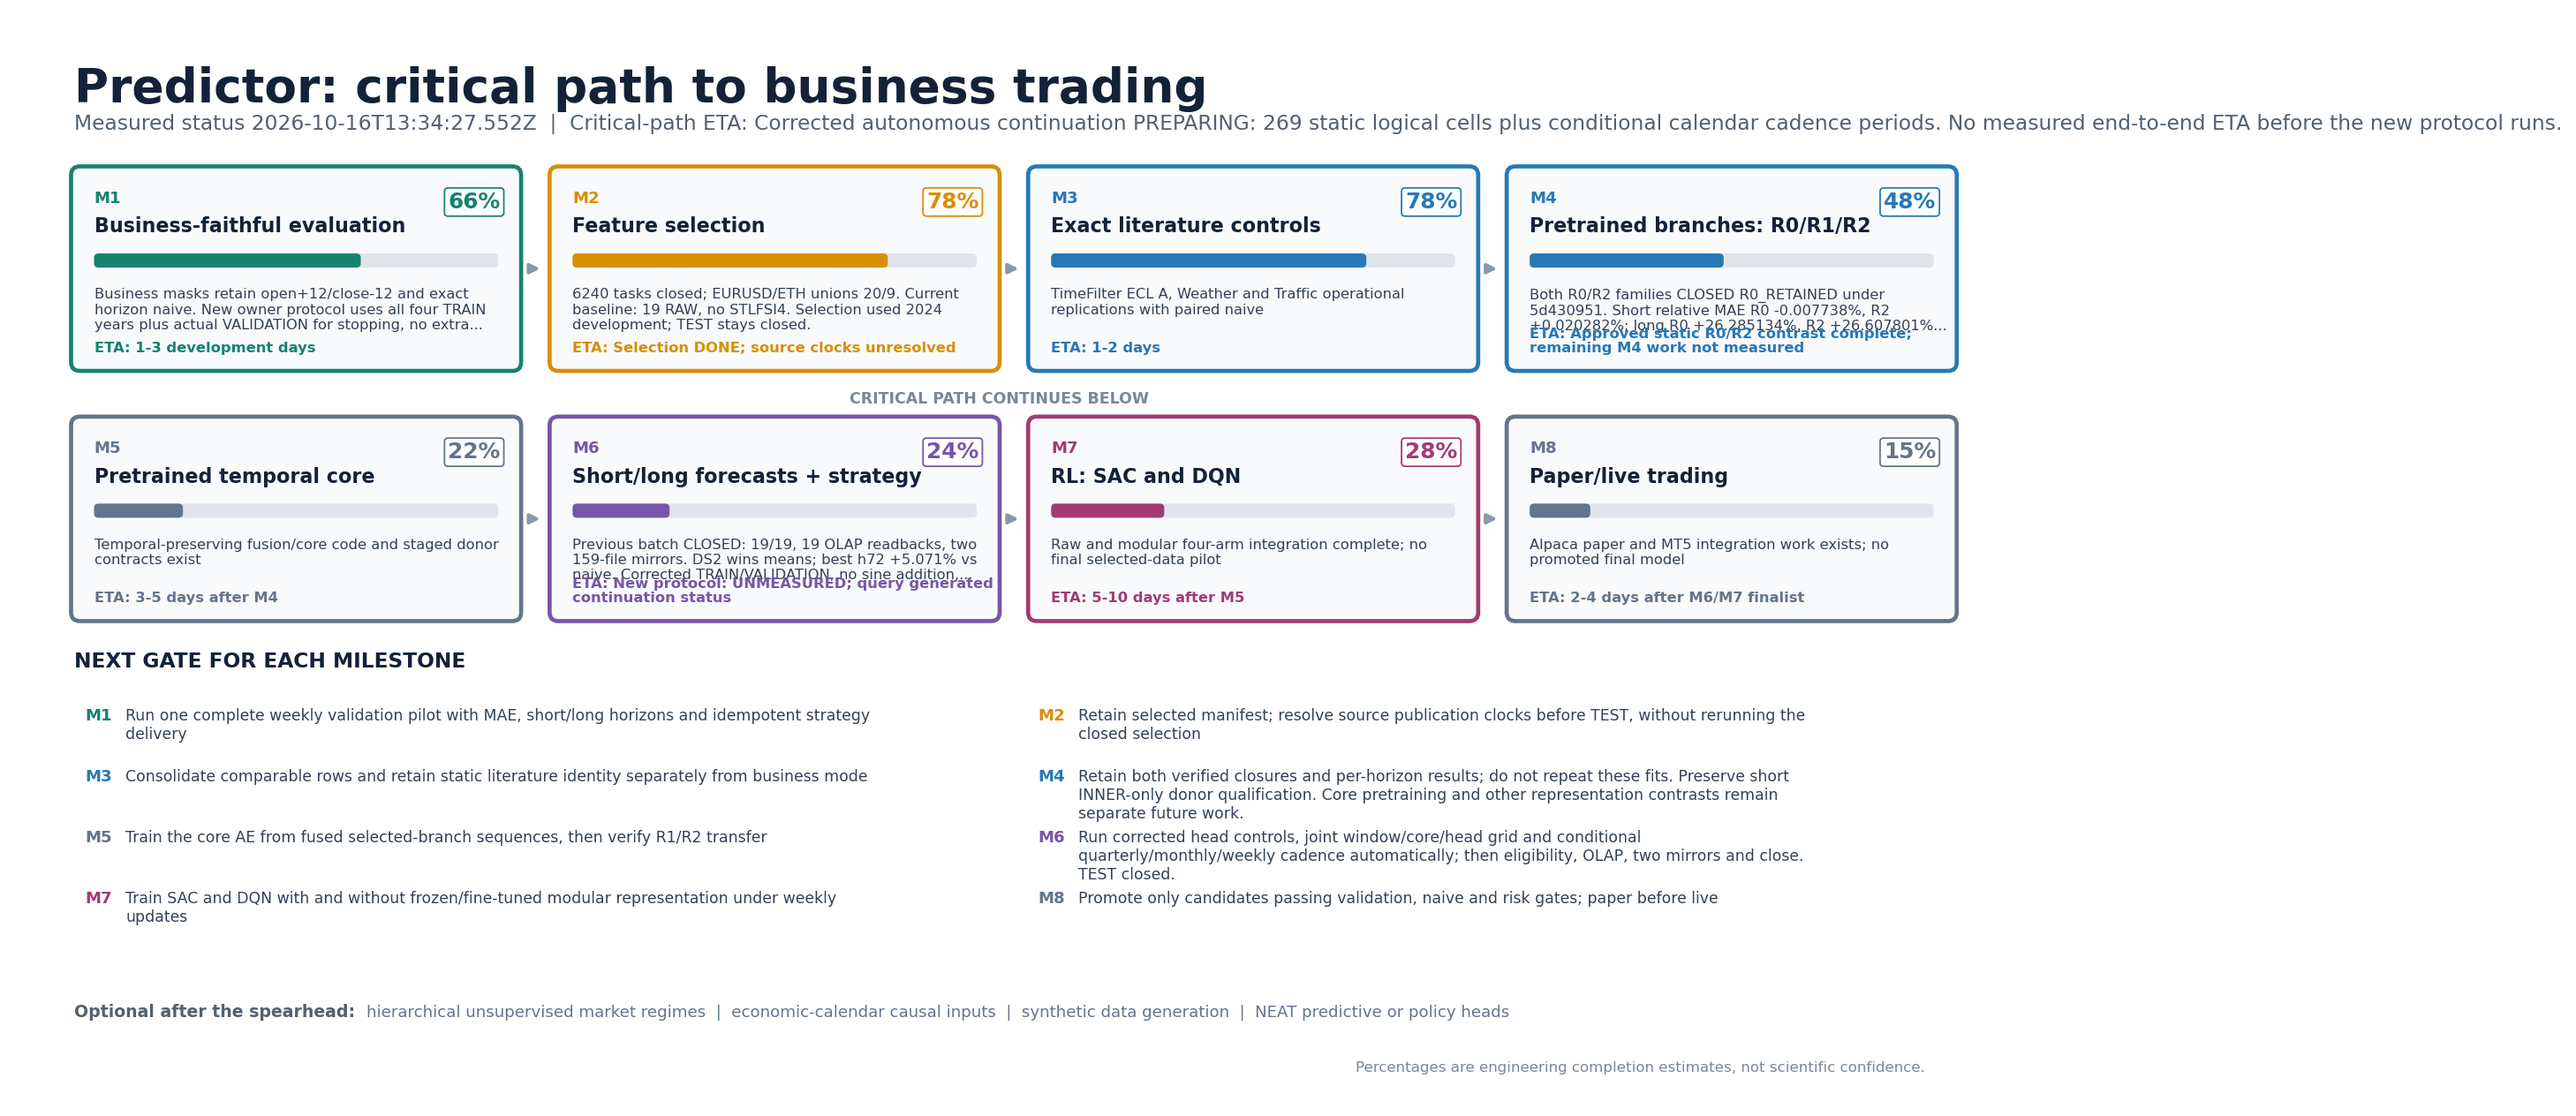
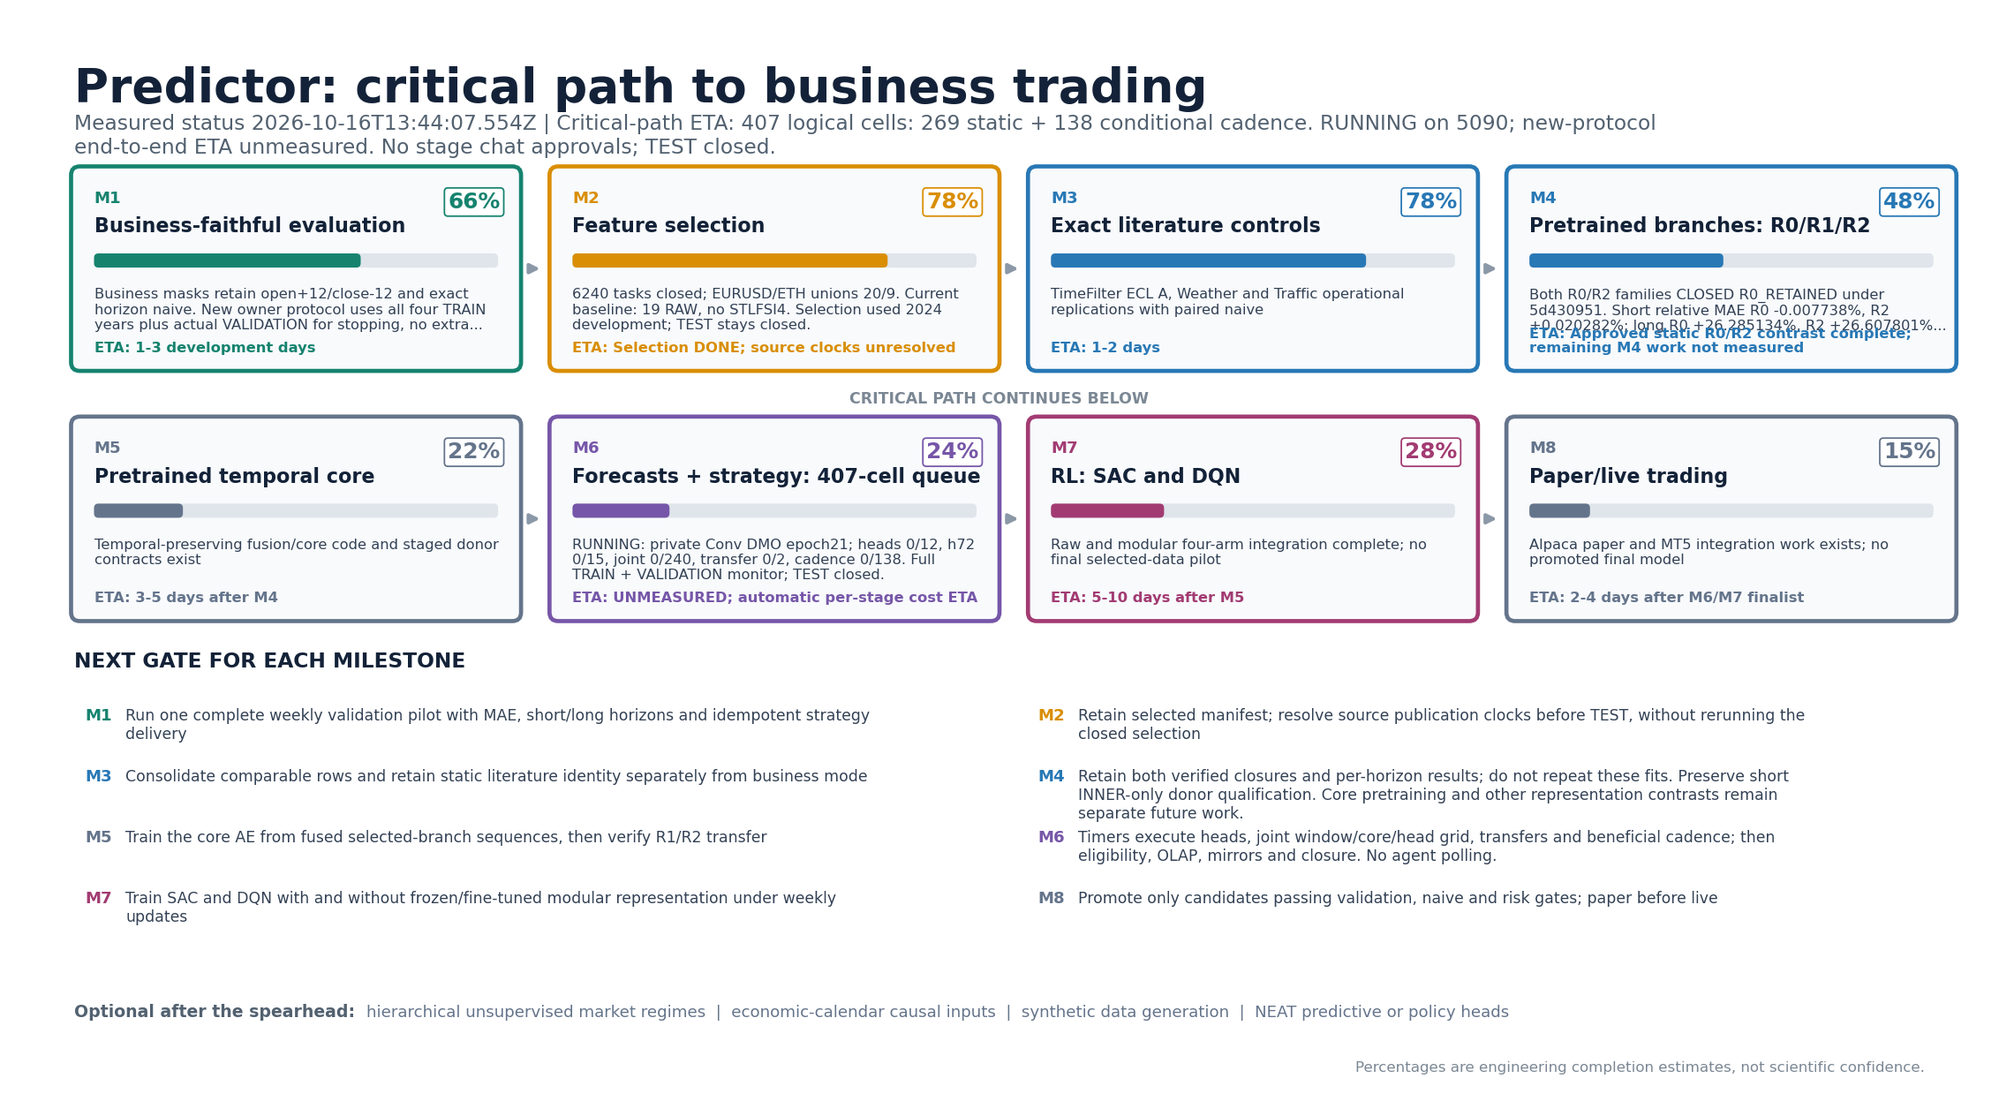
Record live full continuation launch and exact annual cadence coverage

diff --git a/docs/audits/evidence/canonical_20261003/render_master_milestones.py b/docs/audits/evidence/canonical_20261003/render_master_milestones.py
@@ -53,7 +53,7 @@ def main() -> None:
     ax.text(0.55, 9.52, "Predictor: critical path to business trading",
             fontsize=24, fontweight="bold", color="#132238", va="top")
     ax.text(0.55, 9.08,
-            f"Measured status {doc['as_of']}  |  Critical-path ETA: {doc['critical_path_eta']}",
+            wrapped(f"Measured status {doc['as_of']}  |  Critical-path ETA: {doc['critical_path_eta']}", 150),
             fontsize=10.5, color="#526170", va="top")
 
     box_w, box_h = 4.05, 1.82
@@ -95,7 +95,9 @@ def main() -> None:
             evidence = evidence.rstrip(".") + "..."
         ax.text(x + 0.18, y + 0.73, evidence,
                 fontsize=7.35, color="#334155", va="top", linespacing=1.18)
-        ax.text(x + 0.18, y + 0.12, wrapped(f"ETA: {item['eta']}", 48),
+        eta_lines = wrapped(f"ETA: {item['eta']}", 48).splitlines()
+        eta = "\n".join(eta_lines[:2]) + ("..." if len(eta_lines) > 2 else "")
+        ax.text(x + 0.18, y + 0.12, eta,
                 fontsize=7.35, fontweight="bold", color=color, va="bottom",
                 linespacing=1.05)
 

diff --git a/docs/tres_temas_entrevista/MASTER_WORK_PLAN_INFORMATION_TO_KNOWLEDGE_PIPELINE_v3.md b/docs/tres_temas_entrevista/MASTER_WORK_PLAN_INFORMATION_TO_KNOWLEDGE_PIPELINE_v3.md
@@ -13,6 +13,14 @@ Musashi ejecuta; no se asignan tareas nuevas a Satoshi. La autoridad ejecutable
 actual es [continuation/PLAN.md](../i6n/direct_multi_output_static/continuation/PLAN.md)
 y su lista completa de celdas, sellada antes de los ajustes.
 
+Estado de arranque verificado: i6dmo-continuation-41c3a7698150, codigo
+e0626cd9, poblacion 8dd12ec5, 407 celdas logicas (269 estaticas + 138 de
+cadencia condicional). Primer dmo_short_ds2_conv real observado en epoca 21
+en la 5090. Timers activos; no espera autorizaciones entre etapas. Prueba
+anual real: 4/12/53 periodos de trimestre/mes/semana cubren exactamente las
+mismas parejas por horizonte que el estatico, sin duplicaciones ni huecos.
+El estado generado prevalece sobre este snapshot; ETA nueva aun no medida.
+
 1. Corregir el protocolo: TRAIN completo 2020-2023 para gradientes; VALIDATION
    2024 para monitorizar M=(L_TRAIN+L_VALIDATION)/2 con los mismos pesos;
    sin particion adicional de ocho semanas. TEST 2025 permanece cerrado.
